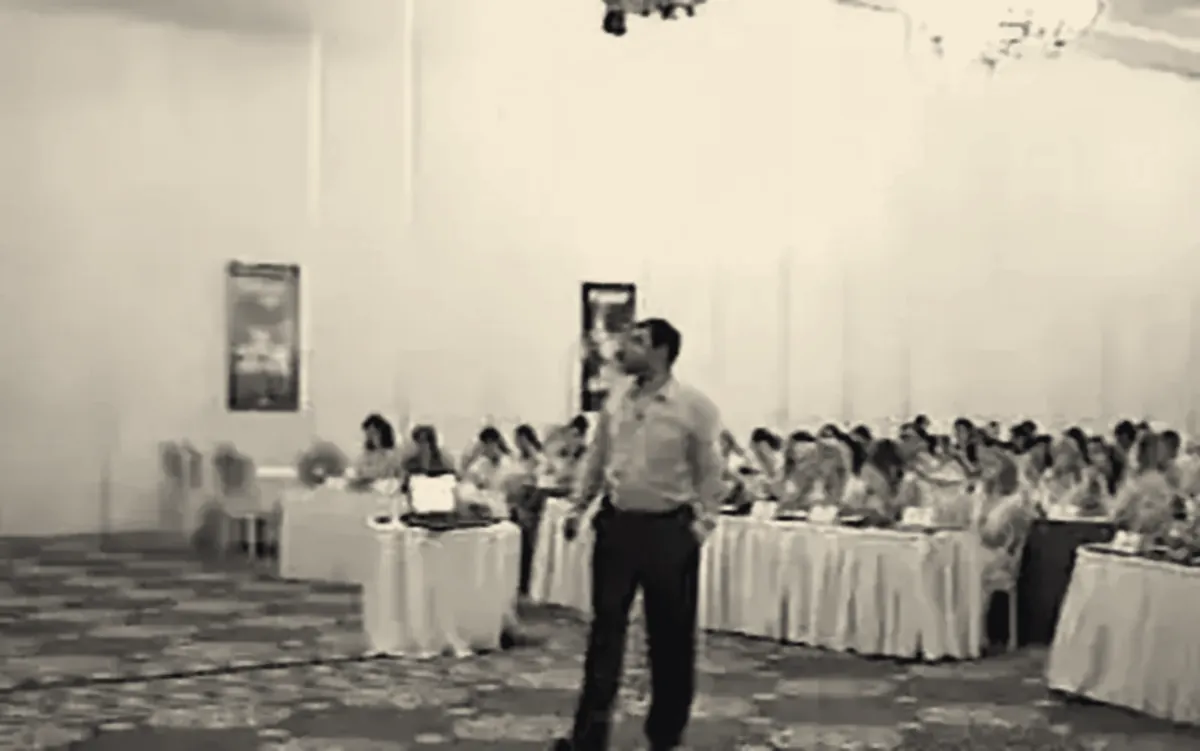
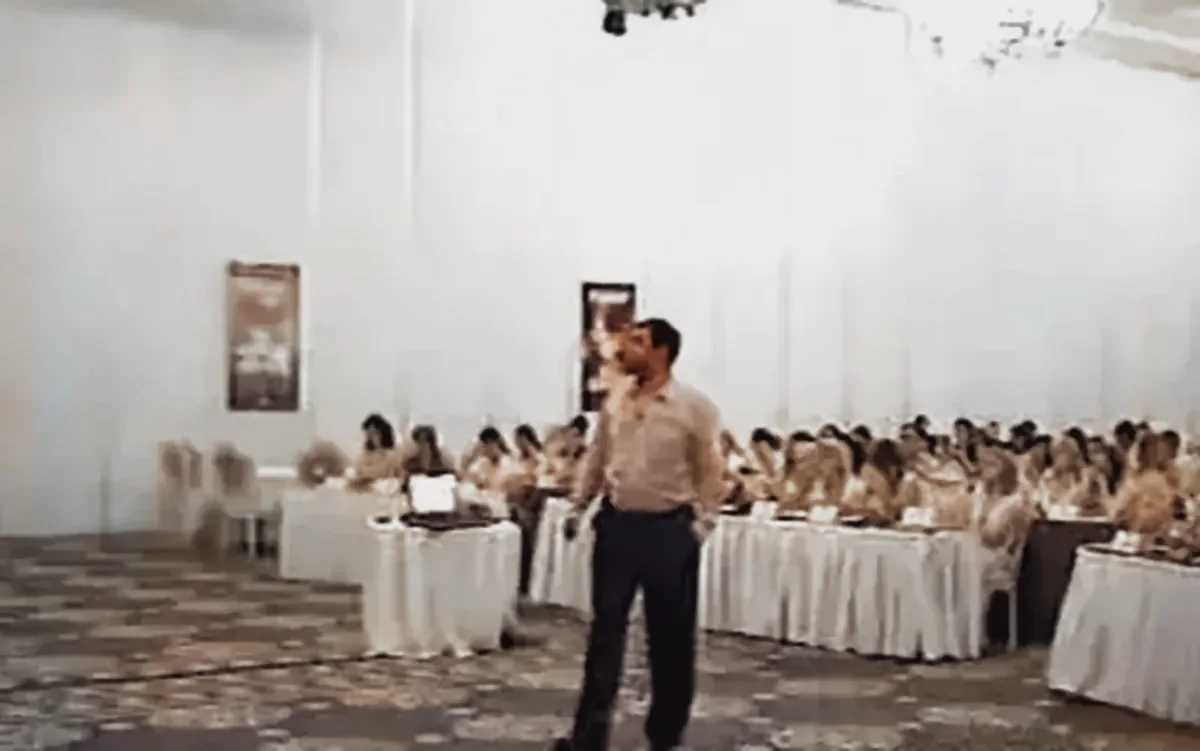
Metinleri, başlığı ve Sahadan fotoğraflarını düzelt
- Ana başlık: masaüstünde tek satırda sahneyi tam doldurur, telefonda iki satır
  kendi boylarında; ikinci satır dış çizgili, ışık yayılınca kehribar renginde dolar.
- Şirket adları dile göre: Bilim İlaç / Bilim Pharmaceuticals,
  World Medicine İlaç / World Medicine Pharmaceuticals (büyük harfte İ/I doğru).
- Sahadan: Kosova'da tek fotoğraf, Azerbaycan'da tek fotoğraf, Antalya'da
  başkasının fotoğrafı kaldırıldı; Antalya kareleri renklendirildi; Vietnam
  için yeni Phano semineri fotoğrafları.
- Metin düzeltmeleri: 5 dilde eğitim, kariyer başlığı, görev açıklamaları,
  alan bağlantısı, Hakkında, arama motoru açıklaması.

Claude-Session: https://claude.ai/code/session_01VjVHCMmkr6MaqLnWQD9Mrz

diff --git a/src/data/home.ts b/src/data/home.ts
@@ -9,17 +9,24 @@ type Text = Record<Locale, string>;
 const T = (en: string, tr: string): Text => ({ en, tr });
 
 /** Sahadan: her yer kendi fotoğraflarıyla. Altyazı "Ülke, Şehir" biçiminde. */
-export interface Place { country: Text; city: Text; what: Text; photos: Photo[] }
+export interface Place {
+  country: Text;
+  city: Text;
+  /** şehir adı yabancıysa büyük harfe o dilin kurallarıyla çevrilir (Ho Chi Minh City → CITY, CİTY değil) */
+  cityLang?: Locale;
+  what: Text;
+  photos: Photo[];
+}
 export const places: Place[] = [
-  { country: T('Kosovo', 'Kosova'), city: T('Pristina', 'Priştine'), what: T('Pharmaceutical training for the medical doctors in the team', 'Ekipteki hekimlere ilaç eğitimi'), photos: ['kosovo-b', 'kosovo-1', 'kosovo', 'kosovo-3'].map((n) => photo(n)) },
-  { country: T('Moldova', 'Moldova'), city: T('Chișinău', 'Kişinev'), what: T('Field managers training', 'Saha müdürleri eğitimi'), photos: [photo('moldova')] },
-  { country: T('Azerbaijan', 'Azerbaycan'), city: T('Baku', 'Bakü'), what: T('Annual basic sciences training for the field teams', 'Saha ekiplerine yıllık temel bilimler eğitimi'), photos: [photo('azerbaijan'), photo('azerbaijan-2')] },
-  { country: T('Georgia', 'Gürcistan'), city: T('Tbilisi', 'Tiflis'), what: T('Training seminar for medical doctors', 'Hekimler için eğitim semineri'), photos: [photo('georgia')] },
-  { country: T('Croatia', 'Hırvatistan'), city: T('Zagreb', 'Zagreb'), what: T('Training seminar for medical doctors', 'Hekimler için eğitim semineri'), photos: [photo('croatia')] },
-  { country: T('Bosnia and Herzegovina', 'Bosna-Hersek'), city: T('Sarajevo', 'Saraybosna'), what: T('Working with the local team at the office', 'Yerel ekiple ofiste çalışma'), photos: [photo('bosnia')] },
+  { country: T('Kosovo', 'Kosova'), city: T('Pristina', 'Priştine'), what: T('Pharmaceutical training for the physicians on the team', 'Ekipteki hekimlere ilaç eğitimi'), photos: [photo('kosovo-1')] },
+  { country: T('Moldova', 'Moldova'), city: T('Chișinău', 'Kişinev'), what: T('Training for field managers', 'Saha müdürleri eğitimi'), photos: [photo('moldova')] },
+  { country: T('Azerbaijan', 'Azerbaycan'), city: T('Baku', 'Bakü'), what: T('Annual basic-science training for the field teams', 'Saha ekiplerine yıllık temel bilimler eğitimi'), photos: [photo('azerbaijan')] },
+  { country: T('Georgia', 'Gürcistan'), city: T('Tbilisi', 'Tiflis'), what: T('Training seminar for physicians', 'Hekimler için eğitim semineri'), photos: [photo('georgia')] },
+  { country: T('Croatia', 'Hırvatistan'), city: T('Zagreb', 'Zagreb'), what: T('Training seminar for physicians', 'Hekimler için eğitim semineri'), photos: [photo('croatia')] },
+  { country: T('Bosnia and Herzegovina', 'Bosna-Hersek'), city: T('Sarajevo', 'Saraybosna'), what: T('With the local team at the office', 'Yerel ekiple ofiste çalışma'), photos: [photo('bosnia')] },
   { country: T('Libya', 'Libya'), city: T('Tripoli', 'Trablus'), what: T('Pharmacy visit in the field', 'Sahada eczane ziyareti'), photos: [photo('libya')] },
-  { country: T('Türkiye', 'Türkiye'), city: T('Antalya', 'Antalya'), what: T('Sales techniques training for the field teams', 'Saha ekiplerine satış teknikleri eğitimi'), photos: ['antalya-1', 'antalya-2', 'antalya-3', 'antalya-4'].map((n) => photo(n)) },
-  { country: T('Vietnam', 'Vietnam'), city: T('Ho Chi Minh City', 'Ho Chi Minh City'), what: T('Southeast Asia operations and product registration', 'Güneydoğu Asya operasyonları ve ürün ruhsatlandırma'), photos: [photo('vietnam')] },
+  { country: T('Türkiye', 'Türkiye'), city: T('Antalya', 'Antalya'), what: T('Sales techniques training for the field teams', 'Saha ekiplerine satış teknikleri eğitimi'), photos: ['antalya-1', 'antalya-3', 'antalya-4'].map((n) => photo(n)) },
+  { country: T('Vietnam', 'Vietnam'), city: T('Ho Chi Minh City', 'Ho Chi Minh City'), cityLang: 'en', what: T('Training seminar for the Phano pharmacy chain', 'Phano eczane zinciri için eğitim semineri'), photos: ['vietnam-1', 'vietnam-2', 'vietnam-3'].map((n) => photo(n)) },
 ];
 
 /** Aynı satış teknikleri slaytı, anlatıldığı beş dilde */
@@ -41,13 +48,24 @@ export const countryNames: Record<string, Text> = {
   Bulgaria: T('Bulgaria', 'Bulgaristan'),
 };
 
-export interface Role { years: number; company: string; /** şirket adının dili (büyük harfe çevirirken İ/I doğru olsun) */ companyLang?: Locale; role: Text; detail: Text; people?: number; countries: string[]; from: number; to: number }
+/**
+ * Şirket adı: marka kısmı ve sayfanın dilinde yazılan tür eki (İlaç / Pharmaceuticals).
+ * `lang`, markanın büyük harfe çevrilirken hangi dilin kurallarına uyacağını söyler (İ/I);
+ * verilmezse sayfanın dili kullanılır (Bilim: Türkçe sayfada BİLİM, İngilizce sayfada BILIM).
+ */
+export interface Company { brand: string; lang?: Locale; kind?: Text }
+const pharma = T('Pharmaceuticals', 'İlaç');
+const nutrifarma: Company = { brand: 'NutriFarma H.P. Inc.', lang: 'en' };
+const bilim: Company = { brand: 'Bilim', kind: pharma };
+const worldMedicine: Company = { brand: 'World Medicine', lang: 'en', kind: pharma };
+
+export interface Role { years: number; company: Company; role: Text; detail: Text; people?: number; countries: string[]; from: number; to: number }
 const roles: Omit<Role, 'from' | 'to'>[] = [
-  { years: 3, company: 'NutriFarma H.P. Inc.', companyLang: 'en', role: T('Marketing Planning Manager', 'Pazarlama Planlama Müdürü'), detail: T('Annual business plan, marketing and advertising, international relations', 'Yıllık iş planı, pazarlama ve reklam, uluslararası ilişkiler'), countries: ['Turkey'] },
-  { years: 1, company: 'Bilim İlaç', companyLang: 'tr', role: T('Business Development Manager', 'İş Geliştirme Müdürü'), detail: T('New partnerships, training foreign teams, international logistics and registrations', 'Yeni iş birlikleri, yabancı ekiplerin eğitimi, uluslararası lojistik ve ruhsatlandırma'), countries: ['Turkey'] },
-  { years: 3, company: 'Bilim İlaç', companyLang: 'tr', role: T('International Marketing Manager', 'Uluslararası Pazarlama Müdürü'), people: 350, detail: T('Managing the country sales and marketing teams', 'Ülke satış ve pazarlama ekiplerinin yönetimi'), countries: ['Croatia', 'Georgia', 'Kosovo', 'Libya', 'Turkmenistan', 'Moldova', 'Yemen', 'Azerbaijan', 'Bosnia'] },
-  { years: 7, company: 'World Medicine', companyLang: 'en', role: T('International Sales & Marketing Director', 'Uluslararası Satış ve Pazarlama Direktörü'), people: 800, detail: T('Managing the country sales and marketing teams', 'Ülke satış ve pazarlama ekiplerinin yönetimi'), countries: ['Vietnam', 'Ukraine', 'Georgia', 'Kosovo', 'Libya', 'Turkmenistan', 'Kyrgyzstan', 'Tajikistan', 'Armenia', 'Moldova', 'Yemen', 'Azerbaijan', 'Bosnia', 'Uzbekistan', 'Belarus', 'Kazakhstan', 'Iraq', 'Bulgaria'] },
-  { years: 6, company: 'World Medicine', companyLang: 'en', role: T('World Regional Director', 'Dünya Bölge Direktörü'), detail: T('Southeast Asia operations, supervising product registration', 'Güneydoğu Asya operasyonları, ürün ruhsatlandırma yönetimi'), countries: ['Vietnam'] },
+  { years: 3, company: nutrifarma, role: T('Marketing Planning Manager', 'Pazarlama Planlama Müdürü'), detail: T('Annual business plan, marketing and advertising, international relations', 'Yıllık iş planı, pazarlama ve reklam, uluslararası ilişkiler'), countries: ['Turkey'] },
+  { years: 1, company: bilim, role: T('Business Development Manager', 'İş Geliştirme Müdürü'), detail: T('New partnerships, training of foreign teams, international logistics and registrations', 'Yeni iş birlikleri, yabancı ekiplerin eğitimi, uluslararası lojistik ve ruhsatlandırma'), countries: ['Turkey'] },
+  { years: 3, company: bilim, role: T('International Marketing Manager', 'Uluslararası Pazarlama Müdürü'), people: 350, detail: T('Managing the country sales and marketing teams', 'Ülke satış ve pazarlama ekiplerinin yönetimi'), countries: ['Croatia', 'Georgia', 'Kosovo', 'Libya', 'Turkmenistan', 'Moldova', 'Yemen', 'Azerbaijan', 'Bosnia'] },
+  { years: 7, company: worldMedicine, role: T('International Sales & Marketing Director', 'Uluslararası Satış ve Pazarlama Direktörü'), people: 800, detail: T('Building sales and marketing organisations from scratch and running them', 'Satış ve pazarlama organizasyonlarının sıfırdan kurulması ve yönetimi'), countries: ['Vietnam', 'Ukraine', 'Georgia', 'Kosovo', 'Libya', 'Turkmenistan', 'Kyrgyzstan', 'Tajikistan', 'Armenia', 'Moldova', 'Yemen', 'Azerbaijan', 'Bosnia', 'Uzbekistan', 'Belarus', 'Kazakhstan', 'Iraq', 'Bulgaria'] },
+  { years: 6, company: worldMedicine, role: T('World Regional Director', 'Dünya Bölge Direktörü'), detail: T('Southeast Asia operations, supervising product registrations', 'Güneydoğu Asya operasyonları, ürün ruhsatlarının yönetimi'), countries: ['Vietnam'] },
 ];
 /** Kariyer, yirmi yıllık çizgide yerleriyle (1. yıldan 20. yıla) */
 export const career: Role[] = (() => {
@@ -57,7 +75,7 @@ export const career: Role[] = (() => {
 export const careerYears = career.reduce((s, r) => s + r.years, 0);
 
 /** Çalışılan şirketler, ilk görüldükleri sırayla */
-export const companies = [...new Map(career.map((r) => [r.company, { name: r.company, lang: r.companyLang }])).values()];
+export const companies = [...new Set(career.map((r) => r.company))];
 
 /** Türkiye dışında çalışılan ülkeler, ilk görüldükleri sırayla */
 export const abroad = [...new Set(career.flatMap((r) => r.countries))].filter((c) => c !== 'Turkey');

diff --git a/src/scripts/home.ts b/src/scripts/home.ts
@@ -26,6 +26,43 @@ function drawDots(p: number) {
 drawDots(1);
 const clist = $$('[data-clist] li');
 
+/* ana başlık: masaüstünde iki satır tek satırda sahne genişliğini doldurur; telefonda her satır kendi başına genişliği doldurur */
+const h1 = $('.s1 h1'), one = $('.s1 h1 .one'), two = $('.s1 h1 .two');
+function fitTitle() {
+  if (!h1 || !one || !two) return;
+  const W = h1.clientWidth;
+  if (!W) return;
+  h1.style.removeProperty('--fit');
+  h1.style.removeProperty('--fit1');
+  h1.style.removeProperty('--fit2');
+  // 100px'te metnin kendi genişliği ölçülür (kutunun değil), sonra orantıyla büyütülür
+  const textW = (el: HTMLElement) => {
+    const r = document.createRange();
+    r.selectNodeContents(el);
+    return r.getBoundingClientRect().width;
+  };
+  const probe = (el: HTMLElement) => {
+    const prev = el.style.fontSize;
+    el.style.fontSize = '100px';
+    const w = textW(el);
+    el.style.fontSize = prev;
+    return w;
+  };
+  if (getComputedStyle(h1).display === 'flex') {
+    h1.style.fontSize = '100px';
+    const w1 = textW(one), w2 = textW(two), gap = parseFloat(getComputedStyle(h1).columnGap) || 30;
+    h1.style.fontSize = '';
+    h1.style.setProperty('--fit', `${Math.min(((W - 2) / (w1 + w2 + gap)) * 100, 150).toFixed(2)}px`);
+  } else {
+    h1.style.setProperty('--fit1', `${(((W - 2) / probe(one)) * 100).toFixed(2)}px`);
+    h1.style.setProperty('--fit2', `${(((W - 2) / probe(two)) * 100).toFixed(2)}px`);
+  }
+}
+fitTitle();
+document.fonts?.ready.then(fitTitle);
+let fitW = 0;
+if (h1) new ResizeObserver(() => { if (h1.clientWidth !== fitW) { fitW = h1.clientWidth; fitTitle(); } }).observe(h1);
+
 /* sahadan: her yer kendi fotoğraflarıyla; kaydırdıkça bütün fotoğraflar sırayla gelir */
 const pics = $('[data-pics]');
 const figs = pics ? ([...pics.children] as HTMLElement[]) : [];
@@ -112,12 +149,12 @@ if (reduce) {
 
   const mm = gsap.matchMedia();
   mm.add('(min-width: 861px)', () => {
-    // 1: ışık liderden bütün ekibe yayılır, renk geri gelir
+    // 1: ışık liderden bütün ekibe yayılır, renk geri gelir; ikinci satır ışığın renginde dolar
     gsap
       .timeline({ scrollTrigger: { trigger: '.s1', start: 'top top', end: '+=100%', scrub: 1, pin: true } })
       .to(shade, { '--r': '120%', ease: 'power1.in', duration: 1 })
       .to(focus, { opacity: 0, ease: 'none', duration: 0.8 }, '<.2')
-      .to('.s1 h1 .two', { color: '#f3f0ea', webkitTextStroke: '0px', duration: 0.6 }, '<.2')
+      .to('.s1 h1 .two', { color: '#f2a900', webkitTextStroke: '0px', duration: 0.6 }, '<.2')
       .to({}, { duration: 0.3 });
 
     // 2: dört rakam, her biri kanıtıyla

diff --git a/src/styles/home.css b/src/styles/home.css
@@ -86,8 +86,9 @@
   display: flex;
   justify-content: space-between;
   gap: 0.3em;
-  flex-wrap: wrap;
-  font: 900 clamp(2.1rem, 5.05vw, 6.4rem) / 0.9 var(--display);
+  white-space: nowrap;
+  /* iki satır tek satırda, sahnenin genişliğini tam doldurur: --fit betikte ölçülür, yoksa yaklaşık değer */
+  font: 900 var(--fit, clamp(1.6rem, 4.2vw, 5.6rem)) / 0.9 var(--display);
   font-stretch: 125%;
   letter-spacing: -0.01em;
   text-transform: uppercase;
@@ -811,12 +812,20 @@
     flex-direction: column;
     gap: 0.3rem;
   }
+  /* telefonda iki satır; her satır kendi boyunda genişliği doldurur, kelimeler bölünmez */
   .s1 h1 {
-    font-size: 10.2vw;
     display: block;
+    font-size: 7vw;
   }
   .s1 h1 span {
     display: block;
+  }
+  .s1 h1 .one {
+    font-size: var(--fit1, 6.4vw);
+  }
+  .s1 h1 .two {
+    font-size: var(--fit2, 13.6vw);
+    margin-top: 0.14em;
   }
   .scroll-hint {
     display: none;

diff --git a/src/data/photos.ts b/src/data/photos.ts
@@ -22,6 +22,9 @@ export interface Photo {
  */
 const isArchiveFrame = ([w, h]: [number, number]) => w === 1200 && h === 751;
 
+/** Küçük bir kolajdan büyütülmüş kareler (Vietnam, Phano semineri): onlar da arşiv görünümüyle gösterilir. */
+const enlarged = new Set(['vietnam-1', 'vietnam-2', 'vietnam-3']);
+
 const SIZES = sizes as unknown as Record<string, [number, number]>;
 
 /** `photo('kosovo')`, `photo('services/a1_1')` */
@@ -35,7 +38,7 @@ export function photo(name: string, cap?: string): Photo {
     th: `/photos/${dir}t/${base}.webp`,
     w: size[0],
     h: size[1],
-    lo: isArchiveFrame(size),
+    lo: isArchiveFrame(size) || enlarged.has(name),
     cap,
   };
 }
